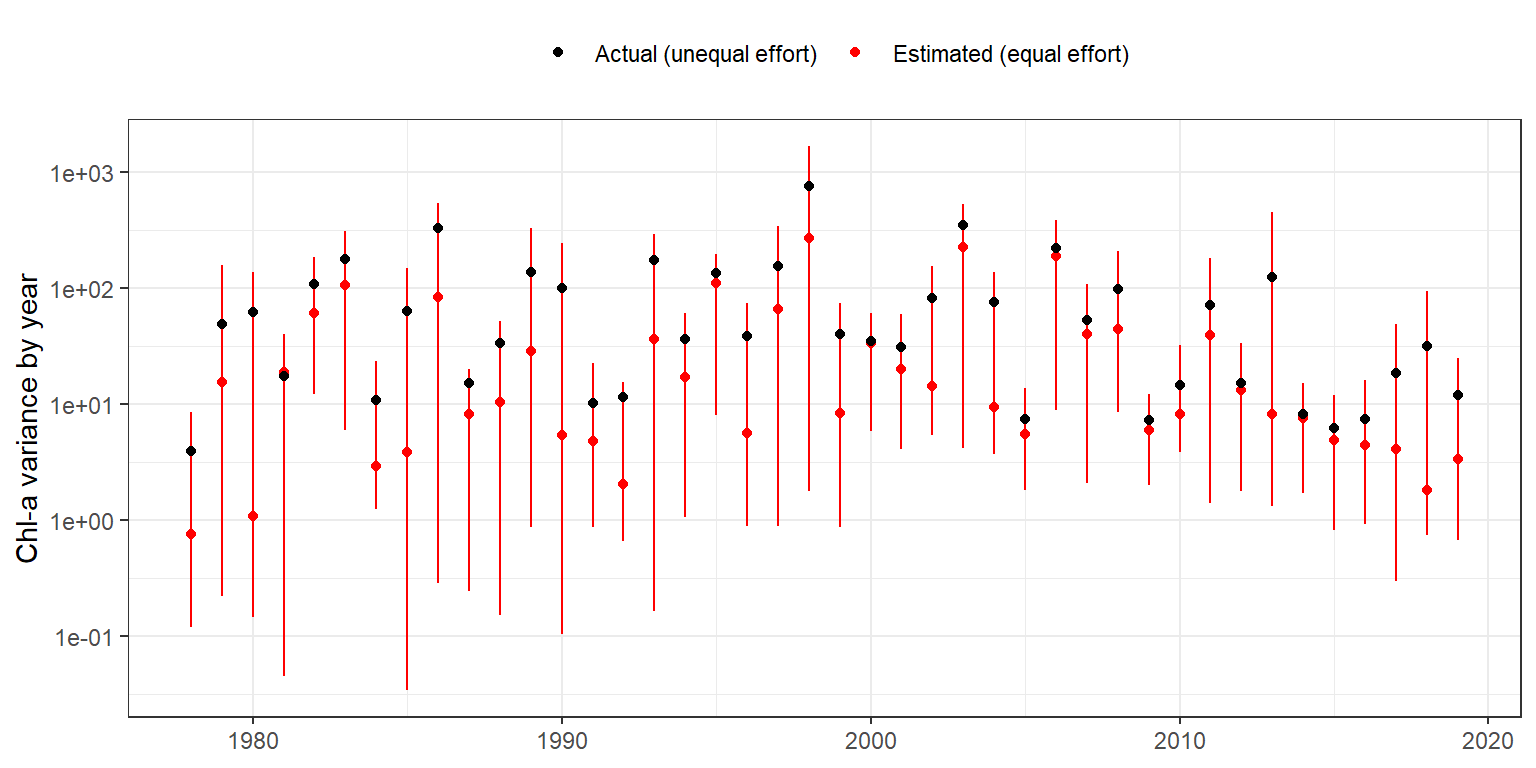
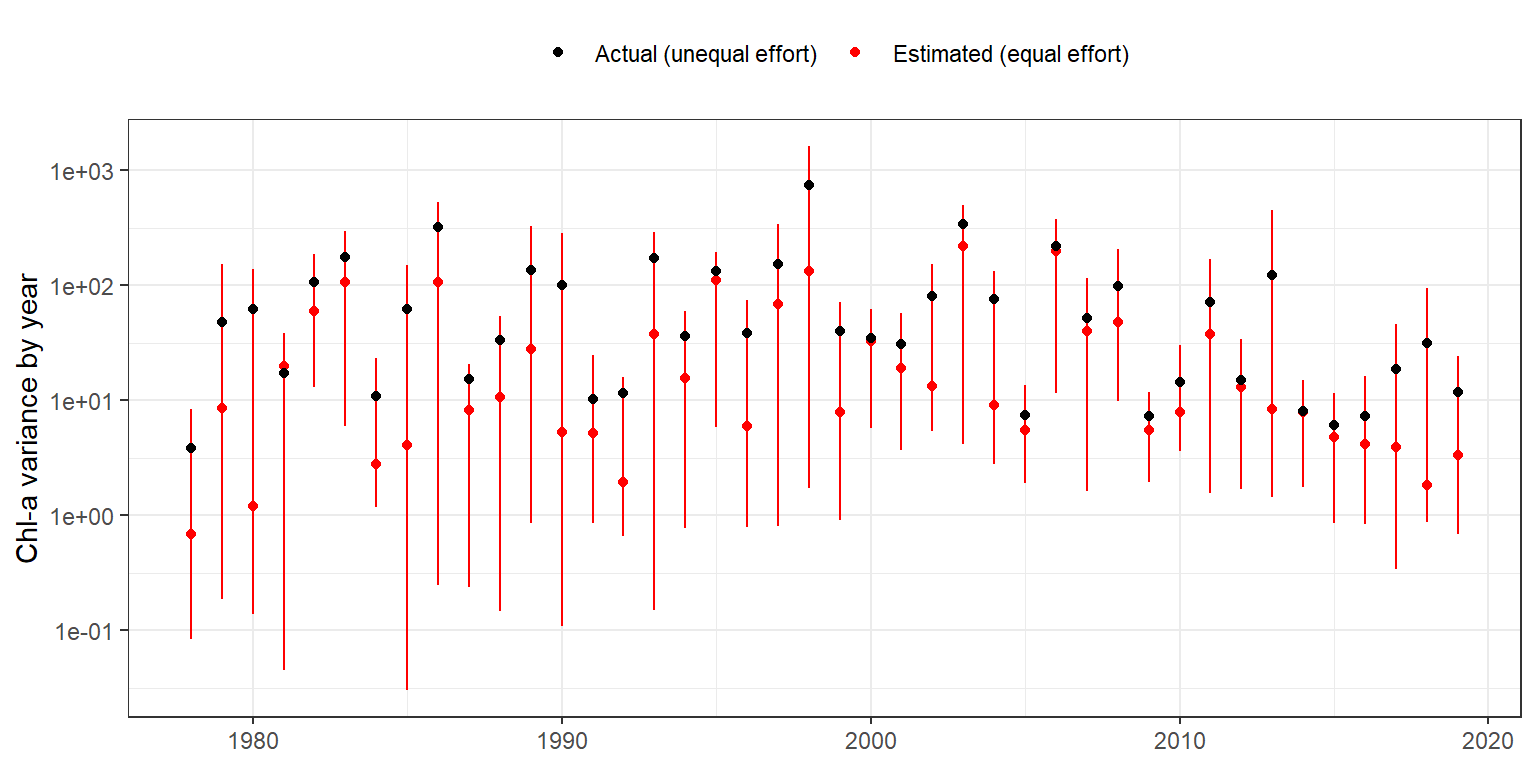
render quarto down samplign 2

diff --git a/docs/sampling-effects2.html b/docs/sampling-effects2.html
@@ -2,7 +2,7 @@
 <html xmlns="http://www.w3.org/1999/xhtml" lang="en" xml:lang="en"><head>
 
 <meta charset="utf-8">
-<meta name="generator" content="quarto-1.0.37">
+<meta name="generator" content="quarto-1.0.36">
 
 <meta name="viewport" content="width=device-width, initial-scale=1.0, user-scalable=yes">
 
@@ -311,12 +311,12 @@ code span.wa { color: #60a0b0; font-weight: bold; font-style: italic; } /* Warni
 <pre><code># A tibble: 6 x 4
      yr  medvar   loest  hiest
   &lt;dbl&gt;   &lt;dbl&gt;   &lt;dbl&gt;  &lt;dbl&gt;
-1  1978   0.752  0.119    8.42
-2  1979  15.3    0.219  157.  
-3  1980   1.07   0.146  137.  
-4  1981  18.8    0.0450  39.6 
-5  1982  59.9   12.1    184.  
-6  1983 106.     5.92   308.  </code></pre>
+1  1978   0.690  0.0845   8.38
+2  1979   8.55   0.188  155.  
+3  1980   1.20   0.138  138.  
+4  1981  19.7    0.0450  38.7 
+5  1982  60.1   13.1    187.  
+6  1983 106.     6.02   299.  </code></pre>
 </div>
 </div>
 <p>The same is done for the actual dataset for comparison.</p>
@@ -657,7 +657,7 @@ window.document.addEventListener("DOMContentLoaded", function (event) {
 });
 </script>
 </div> <!-- /content -->
-<script>var lightboxQuarto = GLightbox({"openEffect":"zoom","descPosition":"bottom","closeEffect":"zoom","selector":".lightbox","loop":true});</script>
+<script>var lightboxQuarto = GLightbox({"descPosition":"bottom","openEffect":"zoom","closeEffect":"zoom","loop":true,"selector":".lightbox"});</script>
 
 
 
